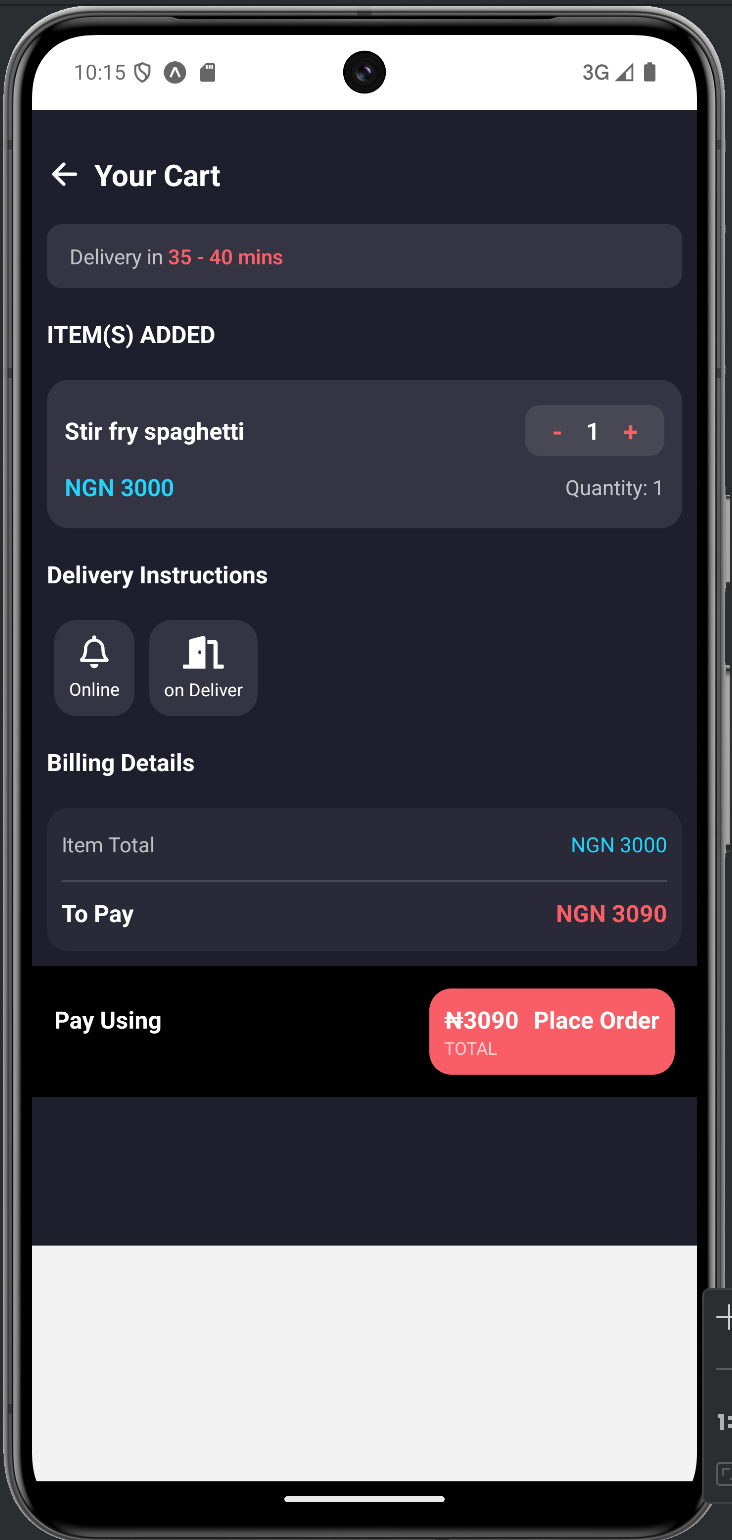
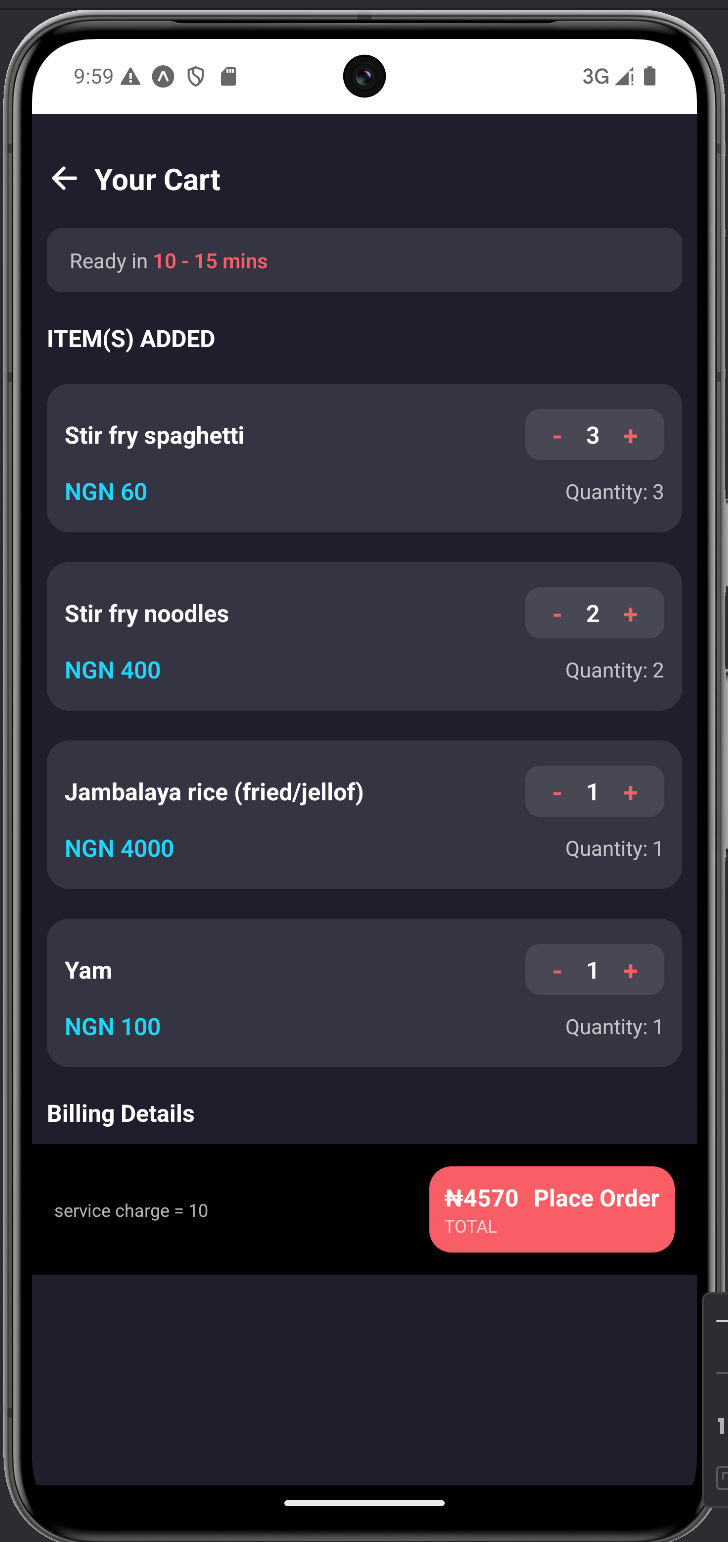
added here

diff --git a/frontend/components/PlaceOrder.tsx b/frontend/components/PlaceOrder.tsx
@@ -18,15 +18,9 @@ interface OrderFooterProps {
   total: number;
   name: string | string[];
   cart: CartItem[];
-  selected: Instruction;
 }
 
-const PlaceOrder: React.FC<OrderFooterProps> = ({
-  total,
-  name,
-  cart,
-  selected,
-}) => {
+const PlaceOrder: React.FC<OrderFooterProps> = ({ total, name, cart }) => {
   const dispatch = useDispatch();
   const [user, setUser] = useState<UserType | null>(null);
   const [modalVisible, setModalVisible] = useState(false);
@@ -62,65 +56,33 @@ const PlaceOrder: React.FC<OrderFooterProps> = ({
   }, [restaurant]);
 
   const handleOrder = () => {
-    if (!selected) {
-      showToast("error", "Error", "Please select a Delivery Method");
-      return;
-    }
-
-    if (selected.id === "1") {
-      apiRequest
-        .post("/order_item", {
-          userId: user?.id,
-          products: JSON.stringify(cartDetail),
-          price: total,
-          paymentMethodId: 24,
-        })
-        .then(() => {
-          showToast(
-            "success",
-            "Order was Successful",
-            "Pick Up at the counter in 30min"
-          );
-          dispatch(cleanCart());
-          setTimeout(() => {
-            router.replace({
-              pathname: "/",
-              params: { name },
-            });
-          }, 2000);
-        });
-      return;
-    }
-
-    // Show the modal with restaurant account details for payment
-    setModalVisible(true);
-  };
-
-  const handlePaymentConfirmation = () => {
-    setModalVisible(false);
-
     apiRequest
       .post("/order_item", {
         userId: user?.id,
         products: JSON.stringify(cartDetail),
         price: total,
-        paymentMethodId: 23,
+        paymentMethodId: 24,
       })
       .then(() => {
         showToast(
           "success",
-          "Payment Successful",
-          "Your order is being processed"
+          "Order was Successful",
+          "Pick Up at the counter in 10-25min"
         );
-
         dispatch(cleanCart());
-
-        router.replace({
-          pathname: "/order",
-          params: { name },
-        });
+        setTimeout(() => {
+          router.replace({
+            pathname: "/",
+            params: { name },
+          });
+        }, 4000);
       });
+    setModalVisible(false);
+    return;
+
+    // Show the modal with restaurant account details for payment
   };
+
   const details = restaurant?.details
     ? JSON.parse(restaurant.details as string)
     : {};
@@ -129,15 +91,18 @@ const PlaceOrder: React.FC<OrderFooterProps> = ({
     total > 0 && (
       <View style={styles.footer}>
         <View>
-          <Text style={styles.footerText}>Pay Using {selected?.name}</Text>
-          <Text style={styles.footerSubText}>{selected?.desc}</Text>
+          {/* <Text style={styles.footerText}>Pay Using {selected?.name}</Text>*/}
+          <Text style={styles.footerSubText}>service charge = 10</Text>
         </View>
-        <Pressable onPress={handleOrder} style={styles.placeOrderButton}>
+        <Pressable
+          onPress={() => setModalVisible(true)}
+          style={styles.placeOrderButton}
+        >
           <View style={{ flexDirection: "row", gap: 10 }}>
             <View>
               <Text style={styles.orderAmount}>
                 {general_data.symbol}
-                {Math.floor(total + 90)}
+                {Math.floor(total + 10)}
               </Text>
               <Text style={styles.orderTotal}>TOTAL</Text>
             </View>
@@ -165,10 +130,7 @@ const PlaceOrder: React.FC<OrderFooterProps> = ({
                 Name: {details?.account_name || " ABC Restaurant"}
               </Text>
 
-              <Pressable
-                onPress={handlePaymentConfirmation}
-                style={styles.confirmButton}
-              >
+              <Pressable onPress={handleOrder} style={styles.confirmButton}>
                 <Text style={styles.confirmButtonText}>I've Paid</Text>
               </Pressable>
 

diff --git a/frontend/app/(home)/cart.tsx b/frontend/app/(home)/cart.tsx
@@ -1,5 +1,12 @@
 import React, { useEffect, useState } from "react";
-import { StyleSheet, Text, View, ScrollView, Pressable } from "react-native";
+import {
+  StyleSheet,
+  Text,
+  View,
+  ScrollView,
+  Pressable,
+  Button,
+} from "react-native";
 import { Ionicons, FontAwesome5 } from "@expo/vector-icons";
 import { useLocalSearchParams, useRouter } from "expo-router";
 import { useDispatch, useSelector } from "react-redux";
@@ -19,7 +26,6 @@ export default function Cart() {
   const cart = useSelector((state: RootState) => state.cart.cart);
   const dispatch = useDispatch();
   const [products, setProducts] = useState<GroupedProducts[]>();
-  const [id, setID] = useState<string | null>();
 
   const instructions: Instruction[] = [
     { id: "0", name: "Online", iconName: "bell", desc: "Pay using Gateways" },
@@ -35,10 +41,6 @@ export default function Cart() {
     ?.map((item) => item.quantity * item.price)
     .reduce((curr, prev) => curr + prev, 0);
 
-  const toggleInstruction = (id: string) => {
-    setID(id);
-  };
-
   useEffect(() => {
     apiRequest.get("/product").then((res) => {
       if (res?.status == 200) setProducts(res.data);
@@ -47,8 +49,8 @@ export default function Cart() {
 
   return (
     <>
-      <ScrollView>
-        <ScrollView style={styles.container}>
+      <ScrollView style={styles.container}>
+        <ScrollView>
           <View style={styles.header}>
             <Ionicons
               onPress={() => router.back()}
@@ -62,8 +64,8 @@ export default function Cart() {
           <View style={styles.deliveryInfo}>
             <Text style={styles.deliveryText}>
               {" "}
-              Delivery in{" "}
-              <Text style={styles.deliveryHighlight}>35 - 40 mins</Text>
+              Ready in{" "}
+              <Text style={styles.deliveryHighlight}>10 - 15 mins</Text>
             </Text>
           </View>
 
@@ -73,8 +75,8 @@ export default function Cart() {
             <CartItem key={index} item={item} />
           ))}
 
-          <Text style={styles.sectionTitle}>Delivery Instructions</Text>
-          <ScrollView
+          {/* <Text style={styles.sectionTitle}>Delivery Instructions</Text> */}
+          {/* <ScrollView
             horizontal
             showsHorizontalScrollIndicator={false}
             style={styles.instructionsContainer}
@@ -89,19 +91,12 @@ export default function Cart() {
                 toggleInstruction={toggleInstruction}
               />
             ))}
-          </ScrollView>
+          </ScrollView> */}
 
           <Text style={styles.sectionTitle}>Billing Details</Text>
-          <BillingSummary total={total} selected={instructions[Number(id)]} />
+          {/* <BillingSummary total={total} selected={instructions[Number(id)]} /> */}
         </ScrollView>
-
-        <PlaceOrder
-          total={total}
-          name={params?.name}
-          cart={cart}
-          selected={instructions[Number(id)]}
-        />
-
+        <PlaceOrder total={total} name={params?.name} cart={cart} />
         <View style={{ backgroundColor: "#1e1e2e" }}>
           <View style={{ paddingBottom: 100 }}>
             {products?.map((item, index) =>
@@ -111,6 +106,7 @@ export default function Cart() {
             )}
           </View>
         </View>
+        ß
         <Toast />
       </ScrollView>
     </>

diff --git a/frontend/app/(home)/admin_restaurant.tsx b/frontend/app/(home)/admin_restaurant.tsx
@@ -135,7 +135,7 @@ function MenuCard({ restaurant }: { restaurant: RestaurantType | null }) {
           <View style={styles.overlay}>
             <Text style={styles.text}>{product.name}</Text>
             <Text style={styles.price}>
-              ${(parseInt(String(product?.price)) || 0).toFixed(2)}
+              ₦{(parseInt(String(product?.price)) || 0).toFixed(2)}
             </Text>
             <View style={styles.buttonContainer}>
               <Pressable

diff --git a/frontend/app/(authenticate)/register.tsx b/frontend/app/(authenticate)/register.tsx
@@ -56,7 +56,7 @@ const Register = () => {
         <KeyboardAvoidingView behavior="padding" style={styles.content}>
           {/* Header */}
           <View style={styles.header}>
-            <Text style={styles.title}>Zomato</Text>
+            <Text style={styles.title}>Food Hub</Text>
           </View>
 
           {/* Form */}

diff --git a/frontend/services/apiRequest.ts b/frontend/services/apiRequest.ts
@@ -5,7 +5,7 @@ import { general_data } from "../util/general_data";
 
 // Base URL from env
 const backendUrl = general_data.backend_url;
-
+console.log("backendUrl", backendUrl);
 const apiRequest = {
   get: async (path: string, options: { query?: Record<string, any> } = {}) => {
     try {

diff --git a/frontend/util/general_data.ts b/frontend/util/general_data.ts
@@ -1,7 +1,7 @@
 export const general_data = {
   name: "Food Hub",
   backend_url: "http://10.0.2.2:5000",
-  // backend_url: "http://169.254.97.149:5000",
+  // backend_url: "https://foodhub.erose.name.ng",
   currency: "NGN",
   symbol: "₦",
 };
